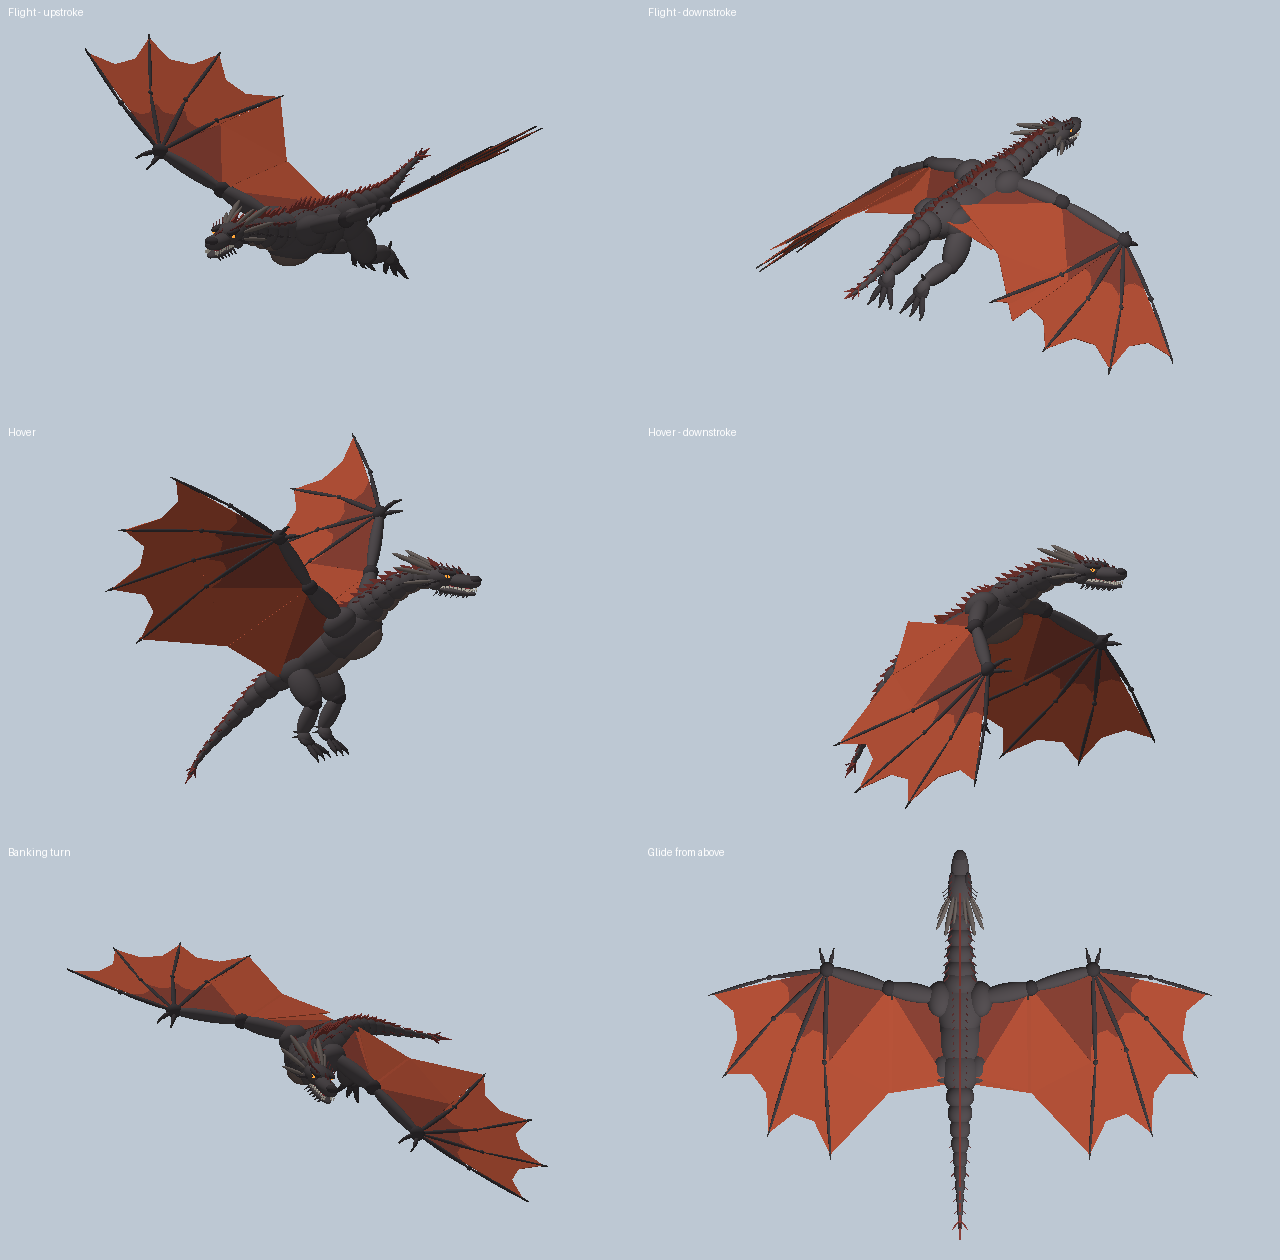
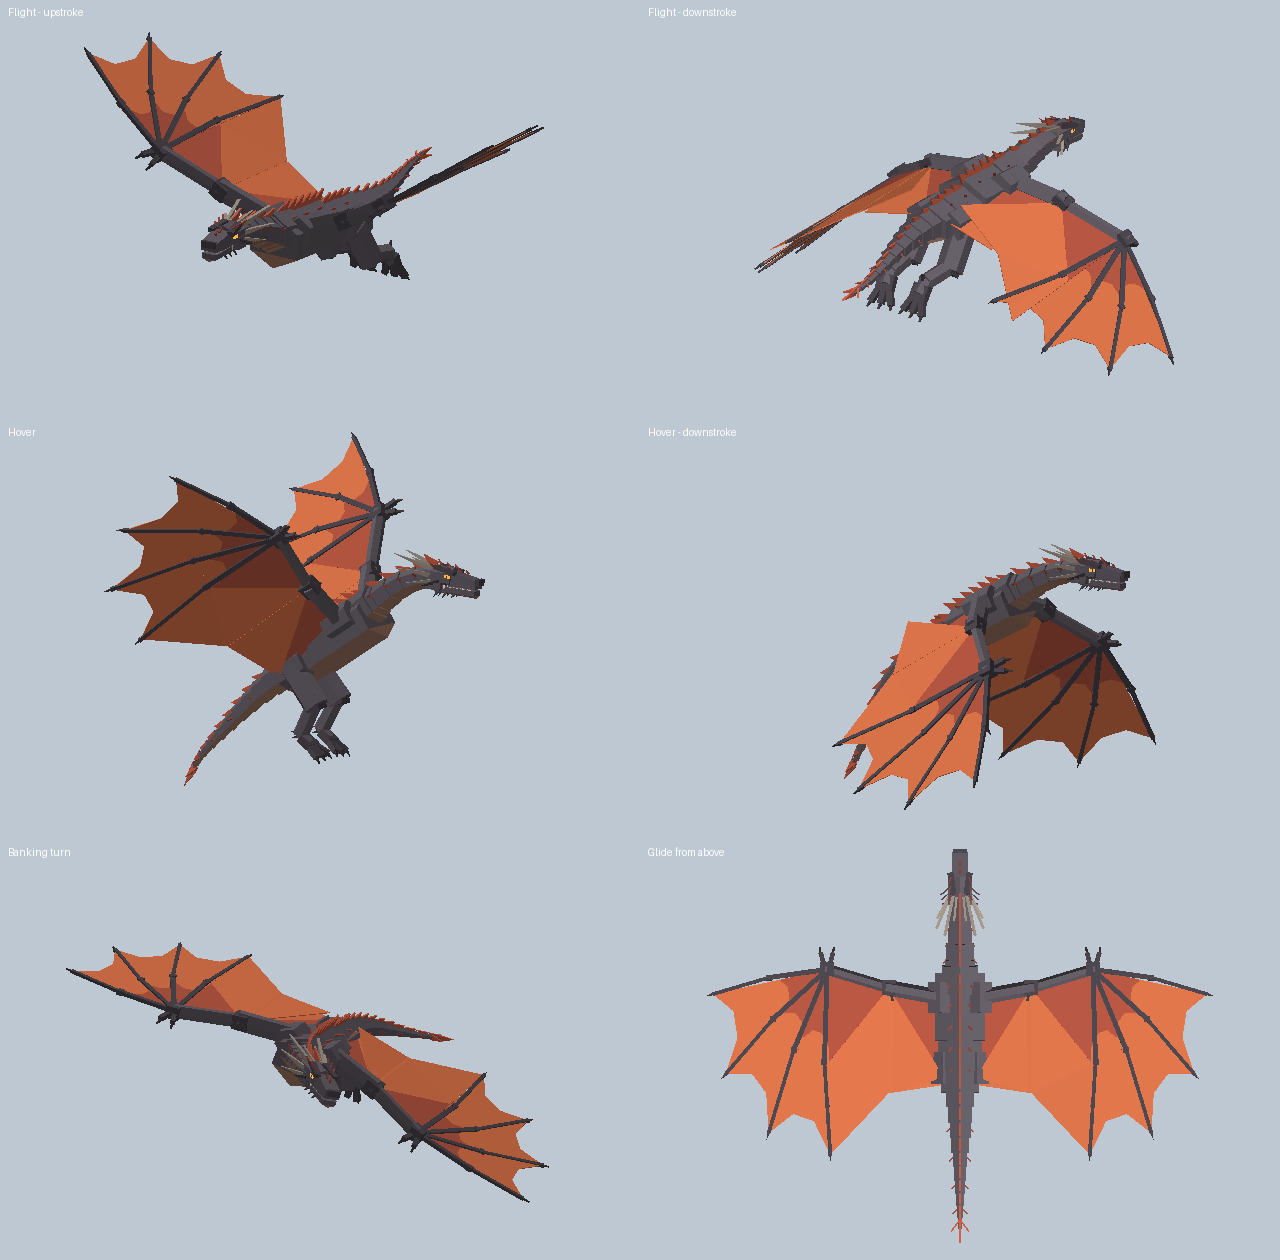
Restyle Cinderwing as low-poly

diff --git a/cinderwing/README.md b/cinderwing/README.md
@@ -1,6 +1,7 @@
 # Cinderwing
 
-A second, separate dragon: a dark wyvern with red-orange wing membranes that
+A second, separate dragon in a low-poly style (flat-shaded blocks and wedges,
+flat colours): a dark wyvern with red-orange wing membranes that
 walks on its wings, flies under camera control, and appears as a rare secret
 spawn in the volcanic biome. It is built entirely from parts by script, and its
 animation is procedural, so there are no mesh or animation assets to upload.
@@ -51,5 +52,6 @@ To test quickly, set `DebugSpawnOnStart` (spawns one immediately) or
 
 - `Config.lua` - spawn odds, speeds, camera, debug switches.
 - `Rig.lua` - skeleton: joint names and rest positions.
-- `Builder.lua` - `Builder.build()` returns the finished Model.
+- `Builder.lua` - `Builder.build()` returns the finished Model. Colours are in
+  the `Colors` table at the top if you want to match your palette.
 - `Animator.lua` - turns velocity and state into joint poses each frame.
